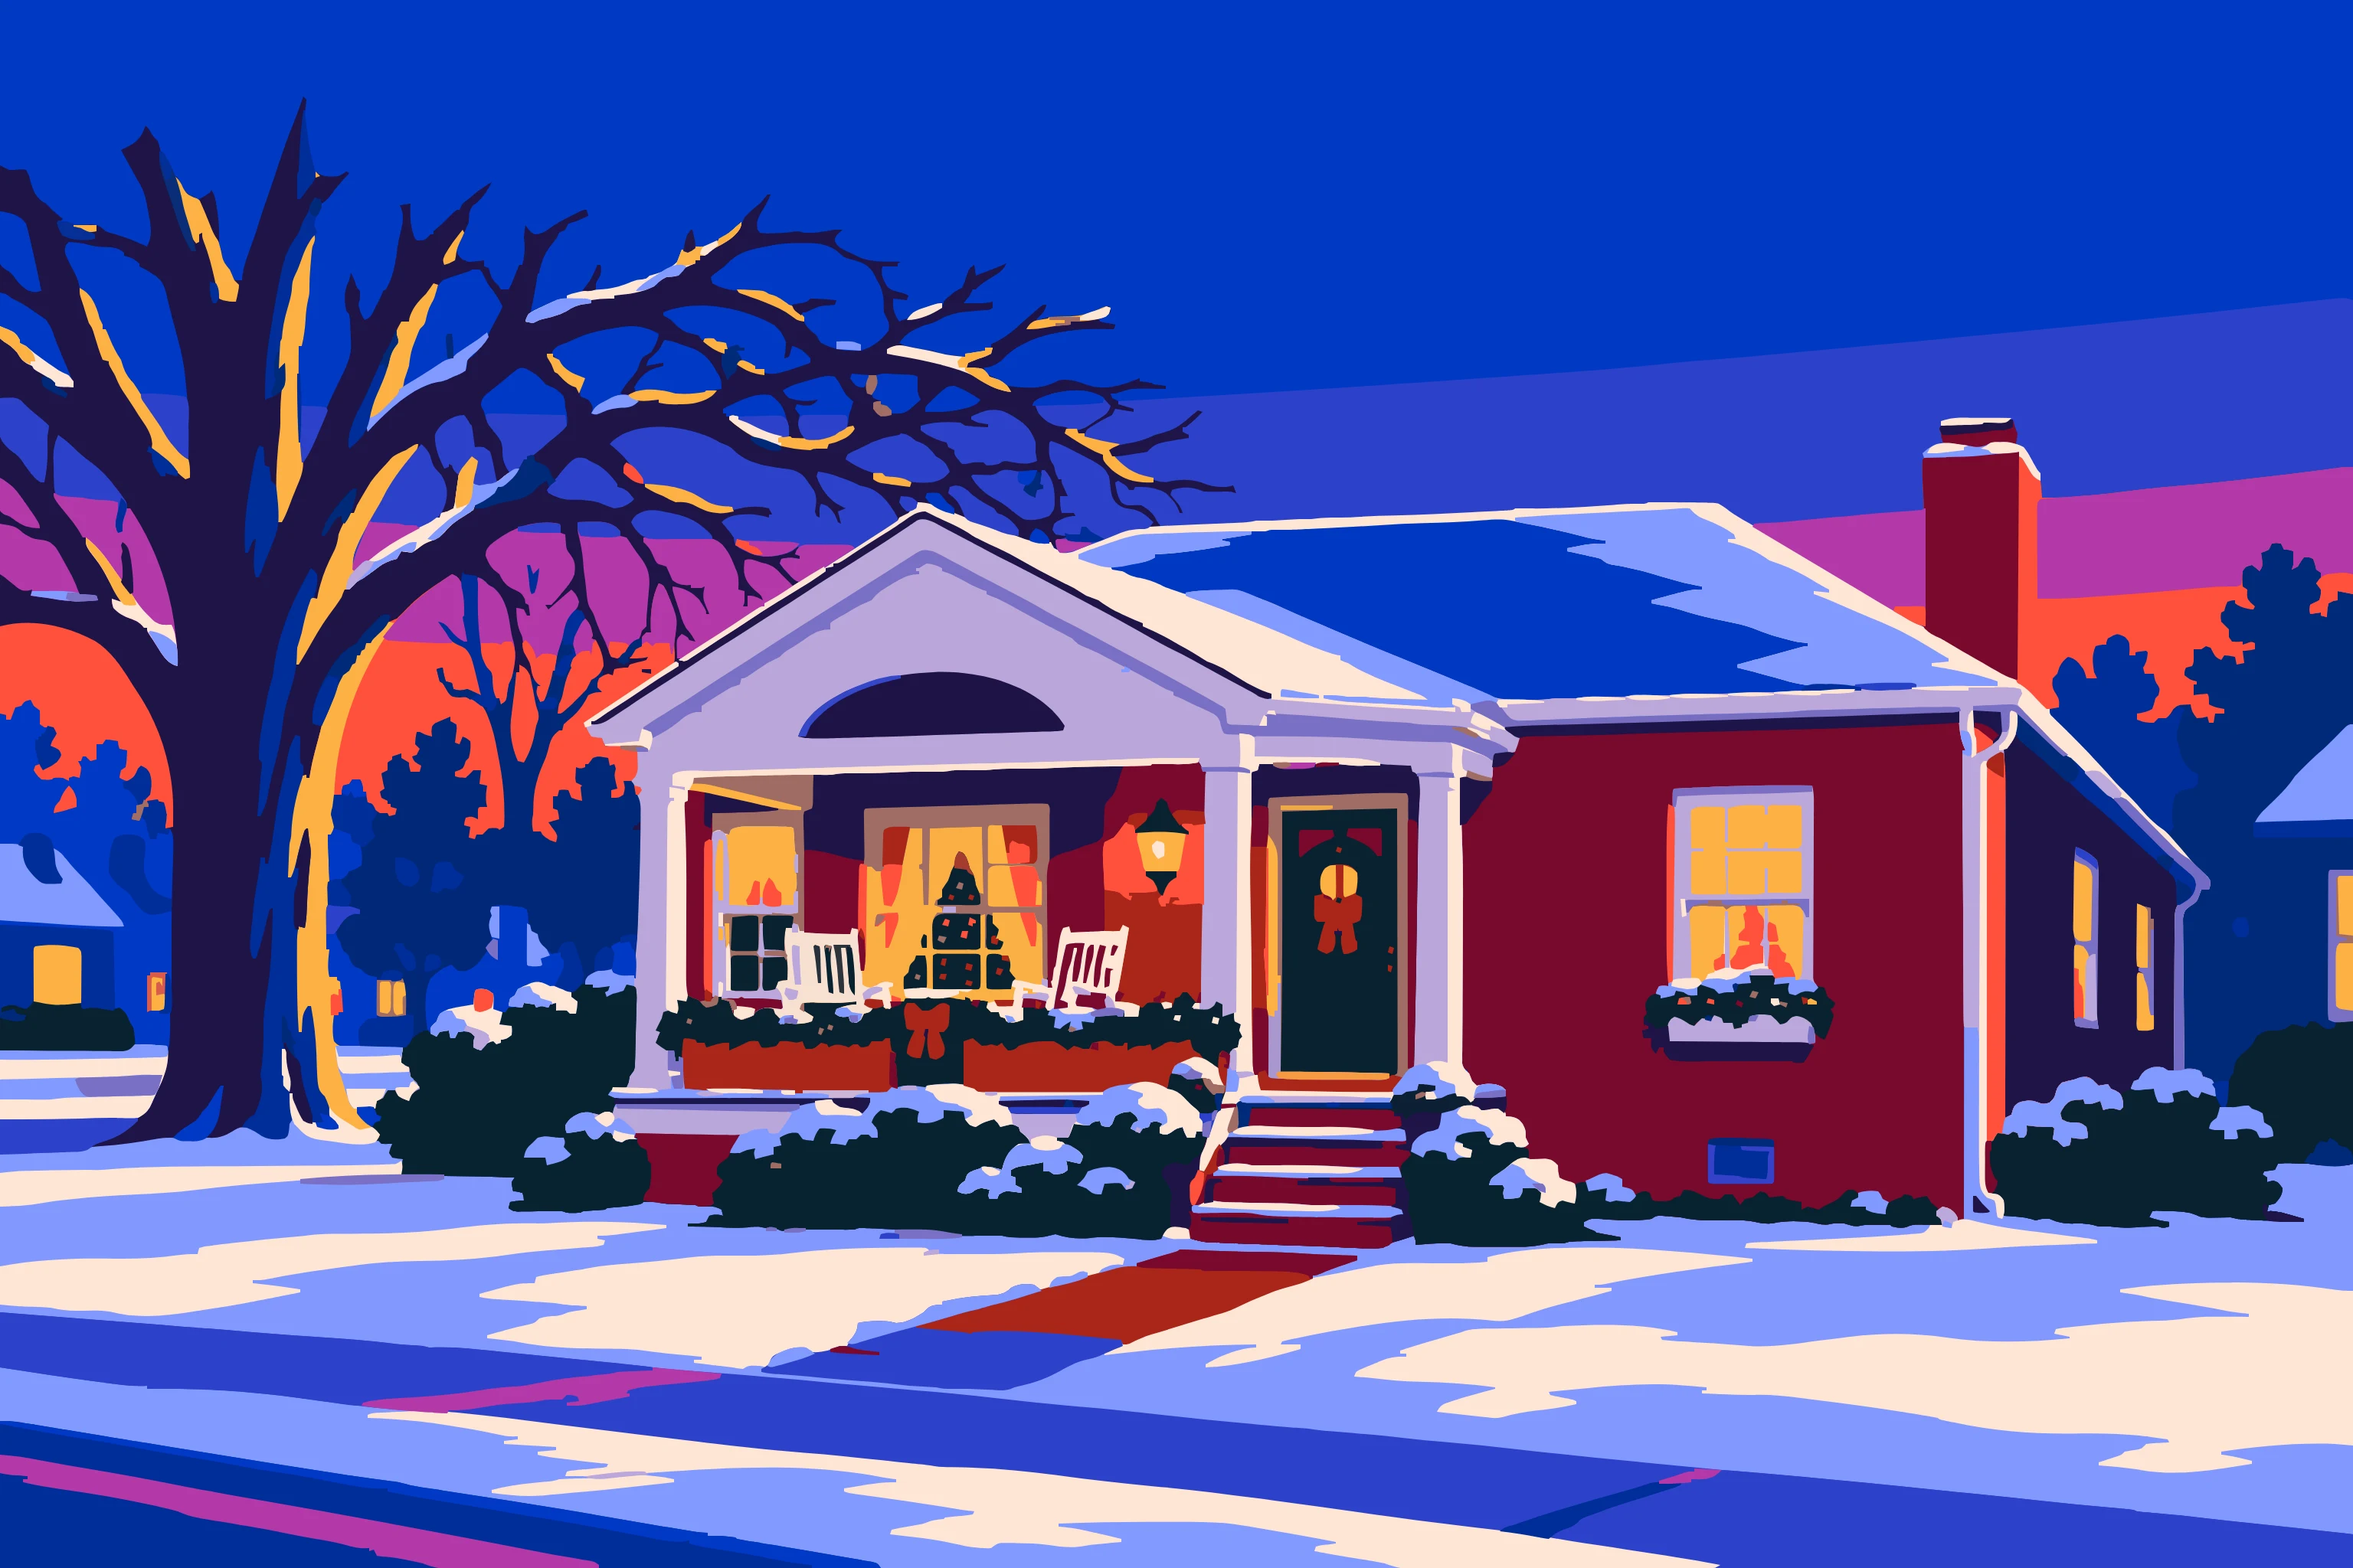
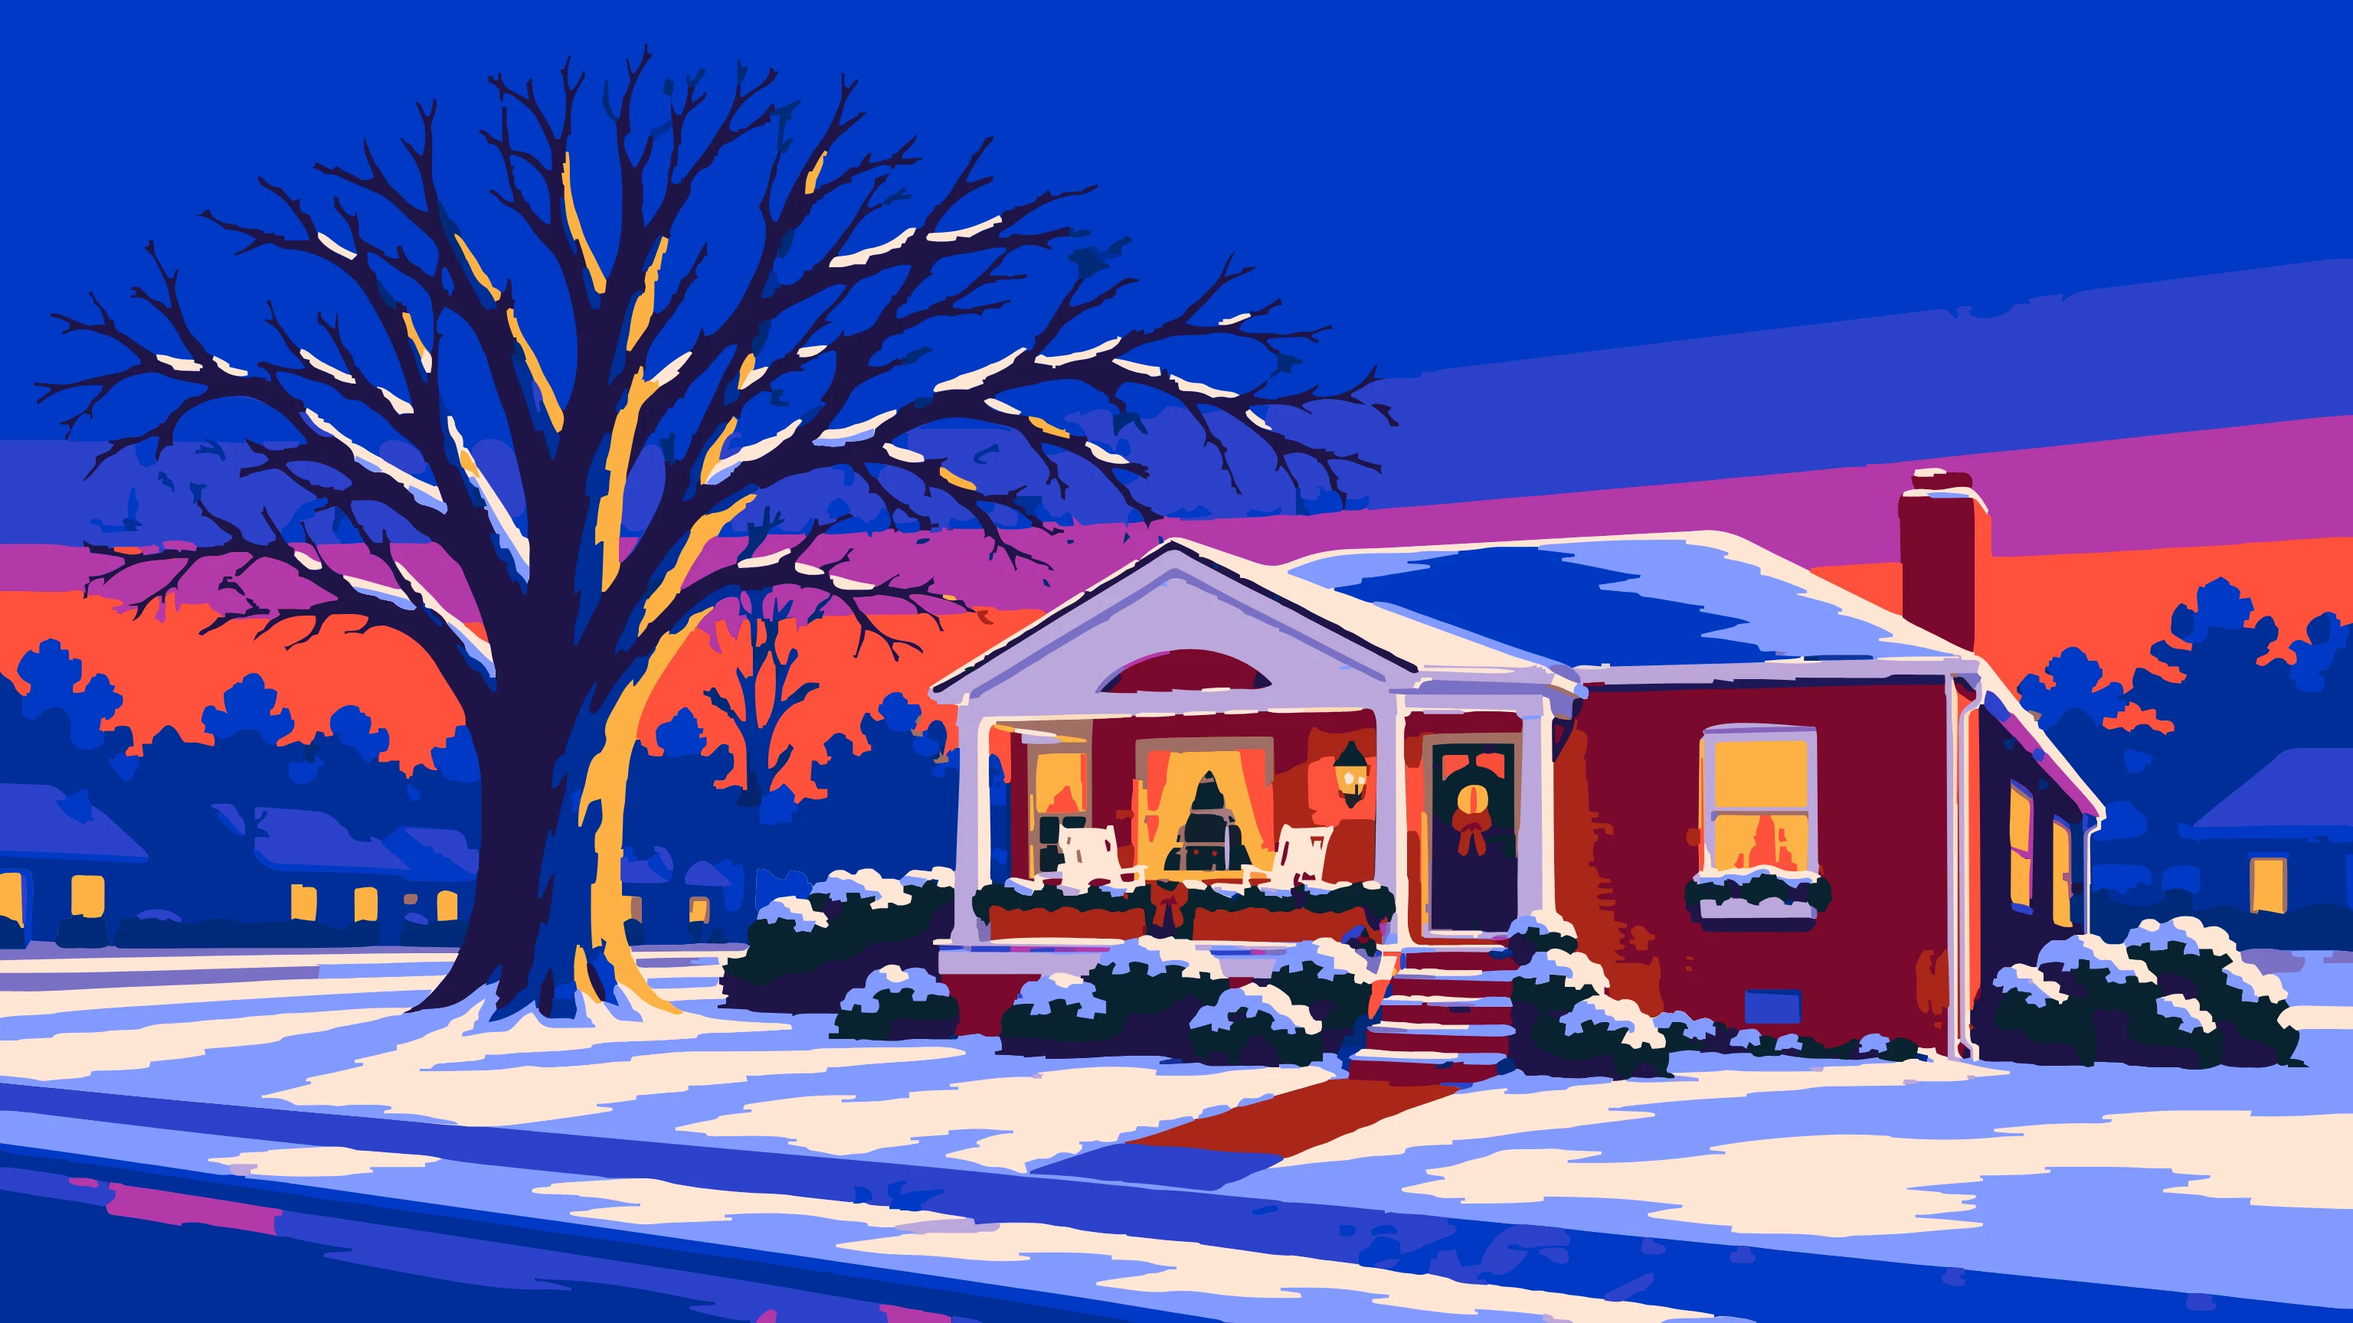
Wide house print: whole oak in frame, 16:9
The crown now ends in clear sky, so no trimmed branch tips. Same inks,
tracing and sky mask; headline moves right of the tree.

Claude-Session: https://claude.ai/code/session_01XGi8FoeFiKqXRjC8WnxF1M

diff --git a/src/features/home/Home.module.css b/src/features/home/Home.module.css
@@ -155,7 +155,7 @@
   display: block;
   width: 100%;
   height: auto;
-  aspect-ratio: 1536 / 880;
+  aspect-ratio: 1536 / 800;
   object-fit: cover;
   object-position: top;
 }
@@ -174,18 +174,18 @@
   }
 
   /* Measured from the picture, which is as wide as the screen: its open sky
-     starts just past the middle and runs down to the chimney top. */
+     starts right of the oak and runs down to the roof. */
   .print .hero {
     max-width: none;
     margin: 0;
-    padding: 0 3vw 0 52vw;
+    padding: 0 3vw 0 62vw;
     align-items: flex-start;
     gap: var(--space-2);
     text-align: left;
   }
 
   .print .title {
-    font-size: clamp(2rem, 2.9vw, 3.5rem);
+    font-size: clamp(1.75rem, 2.3vw, 3rem);
     white-space: nowrap;
   }
 

diff --git a/src/features/home/HomePage.tsx b/src/features/home/HomePage.tsx
@@ -58,7 +58,7 @@ export function HomePage({ route }: { route: Route }) {
                 srcSet={`${housePrintSmall} 768w, ${housePrintLarge} 1536w, ${housePrintSharp} 3072w`}
                 sizes="100vw"
                 width={1536}
-                height={1024}
+                height={864}
                 alt="A snowy brick house at dusk on Christmas Eve, with a wreath on the door and rocking chairs on the porch"
               />
             </picture>

diff --git a/docs/DECISIONS.md b/docs/DECISIONS.md
@@ -67,3 +67,5 @@ Newest at the bottom. Each entry: what we decided, and why.
 **2026-10-28: Santa's sleigh flies over the house print.** A flat silhouette in the oak's ink, in a layer masked to the print's sky, so it passes behind the tree, the roof and the chimney. One slow pass every 45 seconds; on phones it swoops from above the treetop toward the chimney. With reduced motion it waits over the roof. The headline moves into the picture only from 1200px wide, so the sleigh never crosses it.
 
 **2026-10-28: Snow globes in the print's inks.** The globes now hold the same dusk as the house print: flat sky bands, a dark tree with snow on its tiers, a hard highlight on the glass, a two-tone base. The gift pile keeps its meaning. A `scene` slot lets a personal scene replace the tree later (from the database). Brady kept the sleigh dark: subtle but obvious enough.
+
+**2026-10-28: Wide house print redone at 16:9 with the whole oak in frame.** The first wide version's branches ran off the top and had to be trimmed, which left stubby tips. ChatGPT pulled the view back so the crown ends in clear sky; same 16 inks, tracing and sky mask as before. The headline sits right of the tree, and the shopping globes now peek in on a laptop's first screen.

diff --git a/docs/BACKLOG.md b/docs/BACKLOG.md
@@ -11,4 +11,3 @@ Ideas parked until v1 works. Each one must pass the feature test in `CLAUDE.md`.
 - **Personal snow globes:** each person's scene (pets, interests) drawn from the database, since the code is public. The globe already has a `scene` slot; scenes can be made like the house print (ChatGPT, then the flat-ink pass).
 - **Prices for shoppers:** the owner doesn't type prices. Pull them from links (with link auto-fill), so shoppers see a price before clicking through.
 - **Live shipping status:** tracking that updates itself ("Out for delivery") instead of being marked by hand. Needs a tracking service with an API key, likely paid.
-- **Better treetops on the wide house print:** the landscape picture's oak ran off the top edge, so its branch ends were trimmed and look stubby. The real fix: ask ChatGPT for the landscape version with clear sky above the whole crown (as the tall version already has), then rerun the flat-ink pass, tracing and sky mask. About 15 minutes once the new image exists.
